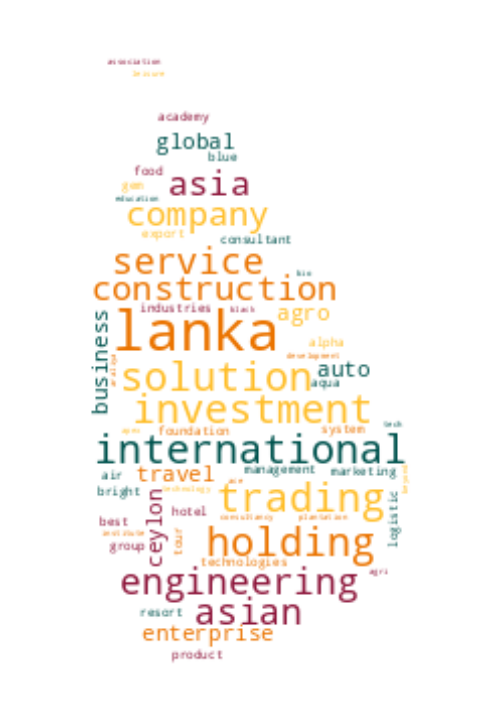
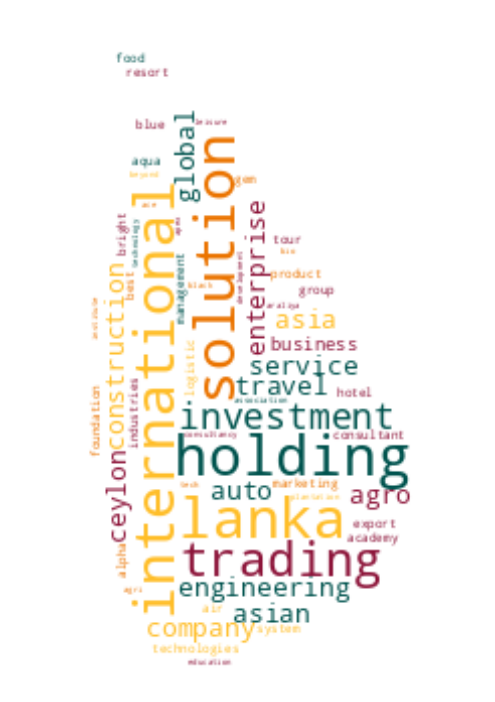
pipeline Sun Dec  3 20:22:54 UTC 2023

Changed region(s): [[0.1818, 0.1496, 0.8485, 0.9573], [0.2121, 0.0598, 0.3333, 0.1197]]

diff --git a/README.md b/README.md
@@ -4,40 +4,40 @@ Data Scraped from Registrar of Companies - Sri Lanka (https://eroc.drc.gov.lk)
 
 ![word-cloud](data/word_cloud.png)
 
-Scraped **14,728** Companies as of *2023-12-04 01:35:42*.
+Scraped **14,730** Companies as of *2023-12-04 01:52:53*.
 
 ## List of 30 Random Companies
 
-* AAVID SOLUTIONS - PV69698
-* ABANS LOGISTICS - PV96204
-* ACCYTECH SOLUTIONS - PV00244506
-* ADSHAYA RESOURCE CONSORTIUM - PV72913
-* AGRO COCO PLANTATION & SOIL SUBSTRATE COMPANY - PV00239596
-* AIKO CHILDCARE - PV00210218
-* AILIX TECHNOLOGIES LANKA - PV00264719
-* AJITA DE ZOYSA AND COMPNY - PV2457
-* ALFATEL - PV75843
-* ALUWOOD INTERIORS - PV87556
-* AMAZING GLOBAL EDUCATIONAL CONSULTANCY - PV00274833
-* ANDREEN TRAVELS - PV128821
-* ANGEL INTERNATIONAL MERCY - GA00209630
-* AQUA SERVICES - PV18986
-* ARGO CEYLON VILLAS - PV00217848
-* ASHARI CONSTRUCTION - PV00247004
-* ASSOCIATION OF CHINESE SPEAKING GUIDE LECTURES OF CEYLON - GA3069
-* ATAPATTU ENTERPRISES - PV00255145
-* AUSTRALIAN VISA PARTNERS - PV94614
-* AVAETA - PV123288
-* AVATAR LANKA - PV91318
-* BACKSTAGE EVENTS - PV00206301
-* BANDULA INDUSTRIES - PV92627
-* BATTICALOA YOUTH AGRICULTURAL NETWORK FOR REVOLUTION - PV00274735
-* BELMONT RECRUITMENT - PV00204838
-* BIO EXTRACTS - PV1494
-* BIZ-SHIP HOLDINGS - PV00265478
-* BLACKFOOL DAIRY GOAT FARMS - PV64765
-* BLUE SKY CONSTRUCTION AND ENGINEERING - PV00246644
-* BUDDHIKA CAR IMPORTERS - PV120036
+* ABEY'S ONE GROUP OF COMPANIES - PV00244698
+* ACADEMY OF ART AND DESIGN - PV00215524
+* ACCURA - TECH INTERNATIONAL - PV60398
+* ACHIEVERS KANDY - PV69323
+* ADAPTRA - PV124224
+* AESIS HOLDINGS - PV103104
+* AGILE INVESTMENTS EXCHANGE - PV00227359
+* AGROVENTURES - THE FARM - PV00257447
+* ALFRESHCO TRADING - PV98726
+* AMBIKA CONSTRUCTION COMPANY - PV67898
+* ANGLO LANKA GOLF - PV13435
+* ARISE AND SHINING - GL00236618
+* ARVO FOODS - PV00228071
+* ARYMAK TRADE LANKA - PV00227737
+* ASIA PACIFIC INSTITUTE OF DIGITAL MARKETING - PV111343
+* ASIA POWER - PV1364
+* ATARAH CAPITAL - PV00262943
+* ATHUPURA CREDIT & INVESTMENT - PV00244858
+* AURGANICA - PV88145
+* AXTOIN - PV00282260
+* AYASE ENTERPRISES - PV76611
+* AYOMA TRADING - PV00216995
+* BANDULA HEAVY MACHINERY SUPPLIERS - PV10416
+* BEMART LANKA INVESTMENT - PV00224863
+* BENCO - PV00204402
+* BERKELEY SCHWAB - PV00249821
+* BOLGODA VILLAGE INN - PV00221296
+* BUDDHIKA TRADERS - PV258
+* BURGER BELL BY K M S - PV00244478
+* BUROOJ  LANKA - PV00200046
 
 ## List of Early Registrations
 
